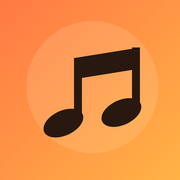
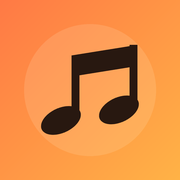
앱 아이콘 음표 정중앙 정렬, 가사 보기·쓰기(시간 가사 따라가기) 추가
Claude-Session: https://claude.ai/code/session_01JB9z3FS9c58aWARiNNNV7n

Changed region(s): [[0.2222, 0.2222, 0.8056, 0.7778]]

diff --git a/index.html b/index.html
@@ -69,11 +69,20 @@ main{padding:8px 14px}
 .handle{width:28px;height:44px;margin-right:-4px;color:var(--muted);font-size:20px;touch-action:none;flex-shrink:0;cursor:grab}
 .row.dragging{background:var(--panel2);position:relative;z-index:3;box-shadow:0 10px 28px rgba(0,0,0,.55);transition:none}
 .search{margin:0 0 8px;padding:11px 14px}
-.chip svg{width:14px;height:14px;fill:currentColor;vertical-align:-2px}
+.chip svg{width:14px;height:14px;fill:currentColor;display:block;flex-shrink:0}
 .prog{height:8px;background:var(--line);border-radius:4px;overflow:hidden;margin:14px 0 8px}
 .prog i{display:block;height:100%;width:0;background:linear-gradient(90deg,var(--accent),var(--accent2));transition:width .2s}
 .vstat{font-size:13px;color:var(--muted);min-height:18px}
 .act-item .ico-s{width:20px;height:20px;flex-shrink:0}
+.ihead{display:flex;align-items:center;gap:14px;margin:2px 0 14px}
+.ihead .thumb{width:64px;height:64px;border-radius:14px;font-size:26px;cursor:default}
+.ihead .it-title,.ihead .it-artist{text-align:left;margin:0}
+.ihead .it-title{font-size:18px}
+.lyrics{max-height:46vh;overflow:auto;text-align:center;font-size:16px;line-height:1.9;white-space:pre-wrap;word-break:keep-all;padding:6px 4px 10px;-webkit-overflow-scrolling:touch}
+.lline{padding:3px 6px;border-radius:8px;color:var(--muted);transition:color .25s,transform .25s;cursor:pointer}
+.lline.on{color:var(--text);font-weight:700;transform:scale(1.05)}
+.nolyr{text-align:center;color:var(--muted);padding:44px 0 30px;font-size:15px}
+.lyr-edit{min-height:44vh;resize:vertical;line-height:1.7;font-family:inherit}
 .plcard{display:flex;align-items:center;gap:12px;padding:12px;border-radius:14px;background:var(--panel);margin-bottom:8px}
 .cover{width:48px;height:48px;border-radius:12px;background:linear-gradient(135deg,var(--accent),var(--accent2));display:grid;place-items:center;font-size:22px;color:#1a0d06;flex-shrink:0}
 .dethead{display:flex;align-items:center;gap:8px;margin:4px 0 6px}
@@ -99,7 +108,7 @@ main{padding:8px 14px}
 .it-table td:first-child{color:var(--muted);width:92px;white-space:nowrap}
 .it-table td:last-child{word-break:break-all}
 .ptitle .name{font-size:16px;font-weight:700}
-.chip{position:relative;padding:6px 10px;border-radius:999px;background:var(--panel2);font-size:12px;font-weight:700;color:var(--accent2);border:1px solid var(--line)}
+.chip{position:relative;display:inline-flex;align-items:center;gap:4px;line-height:1;padding:7px 11px;border-radius:999px;background:var(--panel2);font-size:12px;font-weight:700;color:var(--accent2);border:1px solid var(--line)}
 .chip.on{background:var(--accent2);color:#1a0d06}
 .seek{display:flex;align-items:center;gap:8px;font-size:11px;color:var(--muted);margin:8px 0 4px;font-variant-numeric:tabular-nums}
 input[type=range]{-webkit-appearance:none;appearance:none;width:100%;height:4px;border-radius:4px;background:var(--line);outline:none}
@@ -292,12 +301,15 @@ const plById = id => playlists.find(p => p.id === id);
 let toastT;
 function toast(msg) { const t = $('#toast'); t.textContent = msg; t.classList.add('show'); clearTimeout(toastT); toastT = setTimeout(() => t.classList.remove('show'), 1800); }
 let sheetClose = null;
+let infoOpen = false, infoTab = 'lyrics', infoSongId = null, lyrState = null;
 function openSheet(html, mount) {
+  infoOpen = false; lyrState = null;
   $('#sheetBody').innerHTML = html;
   $('#mask').classList.add('show'); $('#sheet').classList.add('show');
   if (mount) mount($('#sheetBody'));
 }
 function closeSheet() {
+  infoOpen = false; lyrState = null;
   $('#mask').classList.remove('show'); $('#sheet').classList.remove('show');
   if (sheetClose) { const f = sheetClose; sheetClose = null; f(); }
 }
@@ -377,6 +389,21 @@ function readPic(d, v2) {
   if (mime === 'image/jpg') mime = 'image/jpeg';
   return new Blob([d.slice(i)], { type: mime });
 }
+function readLyrics(d) {
+  const enc = d[0]; let i = 4; // 인코딩 1바이트 + 언어 3바이트
+  if (enc === 1 || enc === 2) { while (i + 1 < d.length && !(d[i] === 0 && d[i + 1] === 0)) i += 2; i += 2; }
+  else { while (i < d.length && d[i] !== 0) i++; i++; }
+  if (i >= d.length) return '';
+  const b = d.subarray(i);
+  try {
+    let t;
+    if (enc === 1) t = new TextDecoder('utf-16').decode(b);
+    else if (enc === 2) t = new TextDecoder('utf-16be').decode(b);
+    else if (enc === 3) t = new TextDecoder('utf-8').decode(b);
+    else { try { t = new TextDecoder('utf-8', { fatal: true }).decode(b); } catch { try { t = new TextDecoder('euc-kr').decode(b); } catch { t = new TextDecoder('latin1').decode(b); } } }
+    return t.replace(/\u0000/g, '').replace(/\r\n?/g, '\n').trim();
+  } catch { return ''; }
+}
 async function readTags(blob) {
   const out = {};
   try {
@@ -390,7 +417,7 @@ async function readTags(blob) {
       let p = 0;
       if (flags & 0x40) p = ver === 4 ? ss(b, 0) : u32(b, 0) + 4;
       const v2 = ver === 2, idLen = v2 ? 3 : 4, hdr = v2 ? 6 : 10;
-      const map = v2 ? { TT2: 'title', TP1: 'artist', TAL: 'album', PIC: 'art' } : { TIT2: 'title', TPE1: 'artist', TALB: 'album', APIC: 'art' };
+      const map = v2 ? { TT2: 'title', TP1: 'artist', TAL: 'album', PIC: 'art', ULT: 'lyrics' } : { TIT2: 'title', TPE1: 'artist', TALB: 'album', APIC: 'art', USLT: 'lyrics' };
       while (p + hdr <= b.length) {
         const id = String.fromCharCode(...b.subarray(p, p + idLen));
         if (!/^[A-Z0-9]+$/.test(id)) break;
@@ -398,6 +425,14 @@ async function readTags(blob) {
         if (fs <= 0 || p + hdr + fs > b.length) break;
         const key = map[id], d = b.subarray(p + hdr, p + hdr + fs);
         if (key === 'art') { if (!out.art) out.art = readPic(d, v2); }
+        else if (key === 'lyrics') { if (!out.lyrics) out.lyrics = readLyrics(d); }
+        else if (id === 'TXXX' || id === 'TXX') {   // 일부 프로그램은 가사를 TXXX(LYRICS)에 넣음
+          const enc = d[0]; let i = 1;
+          if (enc === 1 || enc === 2) { while (i + 1 < d.length && !(d[i] === 0 && d[i + 1] === 0)) i += 2; }
+          else { while (i < d.length && d[i] !== 0) i++; }
+          const desc = decodeText(d.subarray(1, i), enc);
+          if (/lyric|uslt/i.test(desc) && !out.lyrics) out.lyrics = readLyrics(new Uint8Array([enc, 0x58, 0x58, 0x58, ...d.subarray(1)]));
+        }
         else if (key && !out[key]) out[key] = decodeText(d.subarray(1), d[0]);
         p += hdr + fs;
       }
@@ -409,7 +444,7 @@ async function readTags(blob) {
       }
     }
   } catch (e) {}
-  for (const k of ['title', 'artist', 'album']) if (!out[k]) delete out[k];
+  for (const k of ['title', 'artist', 'album', 'lyrics']) if (!out[k]) delete out[k];
   if (!out.art) delete out.art;
   return out;
 }
@@ -430,12 +465,13 @@ async function enrich(s, isNew) {
   if (tags.artist) s.artist = tags.artist;
   if (tags.album) s.album = tags.album;
   if (tags.art) s.art = tags.art;
+  if (tags.lyrics && !s.lyrics) s.lyrics = tags.lyrics;
   if (!s.renamed) {
     if (isNew || s.file) s.name = tags.title || cleanName((s.file || s.name).replace(/\.[^.]+$/, ''));
     else s.name = cleanName(s.name);
   }
   if (!s.dur) s.dur = await getDuration(s.blob);
-  s.v2 = true;
+  s.v2 = true; s.v3 = true;
 }
 async function upgradeOldSongs() {
   const old = songs.filter(s => !s.v2);
@@ -444,6 +480,9 @@ async function upgradeOldSongs() {
     render(); if (s.id === curId) updateNow();
   }
   if (old.length) toast(`${old.length}곡의 정보를 정리했어요`);
+  for (const s of songs.filter(x => !x.v3)) {   // 이미 넣은 곡의 가사 읽기
+    try { const t = await readTags(s.blob); if (t.lyrics && !s.lyrics) s.lyrics = t.lyrics; s.v3 = true; await put('songs', s); } catch {}
+  }
 }
 
 /* ---------- 영상에서 음원 추출 → MP3 ---------- */
@@ -523,7 +562,7 @@ async function convertVideos(files) {
       ui('vStat', 'MP3로 바꾸는 중… 0%');
       const mp3 = await encodeMp3(buf, p => { ui('vBar', 0.1 + p * 0.9); ui('vStat', `MP3로 바꾸는 중… ${Math.round(p * 100)}%`); });
       const base = f.name.replace(/\.[^.]+$/, '');
-      const s = { id: uid(), name: cleanName(base), file: base + '.mp3', blob: mp3, size: mp3.size, added: Date.now(), dur: buf.duration, v2: true, fromVideo: true };
+      const s = { id: uid(), name: cleanName(base), file: base + '.mp3', blob: mp3, size: mp3.size, added: Date.now(), dur: buf.duration, v2: true, v3: true, fromVideo: true };
       if (art) s.art = art;
       try { await put('songs', s); } catch (err) { db = null; await put('songs', s); }
       songs.push(s); ok++; lastId = s.id;
@@ -749,29 +788,96 @@ async function renameSong(s) {
 }
 
 /* ---------- 재생 중인 곡 정보 ---------- */
-function infoSheet() {
+// 시간 가사([00:12.34] 형식) 읽기
+function parseLrc(t) {
+  const out = [], re = /\[(\d{1,3}):(\d{1,2}(?:[.:]\d{1,3})?)\]/g;
+  for (const raw of (t || '').split('\n')) {
+    const times = []; let m, last = 0; re.lastIndex = 0;
+    while ((m = re.exec(raw))) { times.push(+m[1] * 60 + parseFloat(m[2].replace(':', '.'))); last = re.lastIndex; }
+    if (times.length) { const text = raw.slice(last).trim(); times.forEach(tm => out.push({ t: tm, text })); }
+  }
+  out.sort((a, b) => a.t - b.t);
+  return out.length >= 3 ? out : null;
+}
+function infoSheet(tabArg) {
   const s = songById(curId);
   if (!s) return toast('재생 중인 곡이 없어요');
+  if (typeof tabArg === 'string') infoTab = tabArg;
   const art = artUrl(s);
-  const srcName = queueSrc === 'lib' ? '전체 곡' : (plById(queueSrc)?.name || '');
-  const inPls = playlists.filter(p => p.songIds.includes(s.id)).map(p => p.name);
-  const d = new Date(s.added);
-  const rows = [
-    ['앨범', s.album],
-    ['길이', s.dur ? fmt(s.dur) : ''],
-    ['파일 크기', fmtSize(s.size)],
-    ['원본 파일', s.file],
-    ['추가한 날', isNaN(d) ? '' : `${d.getFullYear()}.${d.getMonth() + 1}.${d.getDate()}`],
-    ['재생 목록', srcName ? `${srcName} · ${pos + 1}/${order.length}` : ''],
-    ['담긴 곳', inPls.join(', ')]
-  ].filter(x => x[1]);
-  openSheet(`<div class="bigart">${art ? `<img src="${art}" alt="">` : '♪'}</div>
-    <p class="it-title">${esc(s.name)}</p>
-    <p class="it-artist">${esc(s.artist || '가수 정보 없음')}</p>
-    <table class="it-table">${rows.map(([k, v]) => `<tr><td>${k}</td><td>${esc(v)}</td></tr>`).join('')}</table>
-    <div class="sheet-btns"><button class="btn" id="iRen">이름 바꾸기</button><button class="btn" id="iPl">플레이리스트에 담기</button></div>`, b => {
-    b.querySelector('#iRen').onclick = async () => { closeSheet(); await new Promise(r => setTimeout(r, 230)); await renameSong(s); };
-    b.querySelector('#iPl').onclick = async () => { closeSheet(); await new Promise(r => setTimeout(r, 230)); addToPlaylists(s); };
+  const head = `<div class="ihead"><div class="thumb">${art ? `<img src="${art}" alt="">` : '<span>♪</span>'}</div>
+    <div class="info"><p class="it-title">${esc(s.name)}</p><p class="it-artist">${esc(s.artist || '가수 정보 없음')}</p></div></div>
+    <div class="seg"><button data-t="lyrics" class="${infoTab === 'lyrics' ? 'on' : ''}">가사</button><button data-t="info" class="${infoTab === 'info' ? 'on' : ''}">곡 정보</button></div>`;
+  let body = '';
+  const lrc = infoTab === 'lyrics' && s.lyrics ? parseLrc(s.lyrics) : null;
+  if (infoTab === 'lyrics') {
+    if (!s.lyrics) body = `<div class="nolyr">가사가 없습니다</div><div class="sheet-btns"><button class="btn primary" id="lEdit">${I_EDIT} 가사 쓰기</button></div>`;
+    else body = `<div class="lyrics" id="lyrBox">${lrc ? lrc.map((l, i) => `<div class="lline" data-i="${i}">${esc(l.text) || '♪'}</div>`).join('') : esc(s.lyrics)}</div>
+      <div class="sheet-btns"><button class="btn" id="lEdit">${I_EDIT} 가사 수정</button></div>`;
+  } else {
+    const srcName = queueSrc === 'lib' ? '전체 곡' : (plById(queueSrc)?.name || '');
+    const inPls = playlists.filter(p => p.songIds.includes(s.id)).map(p => p.name);
+    const d = new Date(s.added);
+    const rows = [
+      ['앨범', s.album], ['길이', s.dur ? fmt(s.dur) : ''], ['파일 크기', fmtSize(s.size)], ['원본 파일', s.file],
+      ['추가한 날', isNaN(d) ? '' : `${d.getFullYear()}.${d.getMonth() + 1}.${d.getDate()}`],
+      ['재생 목록', srcName ? `${srcName} · ${pos + 1}/${order.length}` : ''], ['담긴 곳', inPls.join(', ')],
+      ['가사', s.lyrics ? (parseLrc(s.lyrics) ? '있음 (재생에 맞춰 표시)' : '있음') : '없음']
+    ].filter(x => x[1]);
+    body = `${art ? `<div class="bigart"><img src="${art}" alt=""></div>` : ''}
+      <table class="it-table">${rows.map(([k, v]) => `<tr><td>${k}</td><td>${esc(v)}</td></tr>`).join('')}</table>
+      <div class="sheet-btns"><button class="btn" id="iRen">이름 바꾸기</button><button class="btn" id="iPl">플레이리스트에 담기</button></div>`;
+  }
+  openSheet(head + body, b => {
+    b.querySelectorAll('[data-t]').forEach(x => x.onclick = () => infoSheet(x.dataset.t));
+    const le = b.querySelector('#lEdit'); if (le) le.onclick = () => lyricsEditor(s);
+    const ir = b.querySelector('#iRen'); if (ir) ir.onclick = async () => { closeSheet(); await new Promise(r => setTimeout(r, 230)); await renameSong(s); };
+    const ip = b.querySelector('#iPl'); if (ip) ip.onclick = async () => { closeSheet(); await new Promise(r => setTimeout(r, 230)); addToPlaylists(s); };
+    if (lrc) {
+      const els = [...b.querySelectorAll('.lline')];
+      els.forEach(el => el.onclick = () => { audio.currentTime = lrc[+el.dataset.i].t; if (audio.paused) audio.play().catch(() => {}); });
+      lyrState = { lines: lrc, els, idx: -1, box: b.querySelector('#lyrBox') };
+      syncLyrics(true);
+    }
+  });
+  infoOpen = true; infoSongId = s.id;
+}
+function syncLyrics(jump) {
+  if (!lyrState) return;
+  const t = audio.currentTime + 0.2, L = lyrState.lines;
+  let i = -1; for (let k = 0; k < L.length; k++) { if (L[k].t <= t) i = k; else break; }
+  if (i === lyrState.idx) return;
+  if (lyrState.idx >= 0) lyrState.els[lyrState.idx]?.classList.remove('on');
+  lyrState.idx = i;
+  const el = lyrState.els[i];
+  if (el) {
+    el.classList.add('on');
+    const box = lyrState.box;
+    box.scrollTo({ top: el.offsetTop - box.offsetTop - box.clientHeight / 2 + el.clientHeight / 2, behavior: jump ? 'auto' : 'smooth' });
+  }
+}
+audio.addEventListener('timeupdate', () => syncLyrics(false));
+audio.addEventListener('seeked', () => syncLyrics(true));
+function lyricsEditor(s) {
+  openSheet(`<p class="sheet-title">${s.lyrics ? '가사 수정' : '가사 쓰기'} · ${esc(s.name)}</p>
+    <textarea class="field lyr-edit" id="lyrIn" placeholder="가사를 입력하거나 붙여 넣으세요">${esc(s.lyrics || '')}</textarea>
+    <p class="note" style="margin-top:8px">줄 앞에 [01:23.45]처럼 시간을 넣으면 노래에 맞춰 가사가 따라가요.</p>
+    <div class="sheet-btns"><button class="btn" id="lyNo">취소</button><button class="btn" id="lyTime">지금 시간 넣기</button><button class="btn primary" id="lyOk">저장</button></div>`, b => {
+    const ta = b.querySelector('#lyrIn');
+    b.querySelector('#lyNo').onclick = () => infoSheet('lyrics');
+    b.querySelector('#lyTime').onclick = () => {
+      const t = audio.currentTime || 0, tag = `[${String(Math.floor(t / 60)).padStart(2, '0')}:${(t % 60).toFixed(2).padStart(5, '0')}]`;
+      const p = ta.selectionStart, lineStart = ta.value.lastIndexOf('\n', p - 1) + 1;
+      ta.value = ta.value.slice(0, lineStart) + tag + ta.value.slice(lineStart).replace(/^\[\d{1,3}:\d{1,2}(?:[.:]\d{1,3})?\]/, '');
+      const nextLine = ta.value.indexOf('\n', lineStart); const np = nextLine < 0 ? ta.value.length : nextLine + 1;
+      ta.focus(); ta.setSelectionRange(np, np);
+    };
+    b.querySelector('#lyOk').onclick = async () => {
+      const v = ta.value.replace(/\r\n?/g, '\n').trim();
+      if (v) s.lyrics = v; else delete s.lyrics;
+      s.v3 = true; await put('songs', s);
+      toast(v ? '가사를 저장했어요' : '가사를 지웠어요');
+      infoSheet('lyrics');
+    };
   });
 }
 $('#pArt').onclick = infoSheet;
@@ -926,6 +1032,7 @@ function updateNow() {
   $('#pName').textContent = s ? s.name : '재생 중인 곡 없음';
   const srcName = queueSrc === 'lib' ? '전체 곡' : (plById(queueSrc)?.name || '');
   $('#pSub').textContent = s ? `${s.artist ? s.artist + ' · ' : ''}${srcName} · ${order.length ? pos + 1 : 0}/${order.length}` : '곡을 눌러 재생하세요';
+  if (infoOpen && s && infoSongId !== s.id) infoSheet();
   const art = artUrl(s);
   $('#pArt').innerHTML = art ? `<img src="${art}" alt="">` : '<span>♪</span>';
   if ('mediaSession' in navigator && s) {

diff --git a/README.md b/README.md
@@ -18,6 +18,7 @@
 - **잠자기 타이머** – 15~90분 후 / 지금 곡이 끝나면
 - **영상에서 음원 추출** – 영상 파일(MP4·MOV 등)의 소리만 뽑아 MP3로 변환해 바로 추가 (기기 안에서 처리, [lamejs](https://github.com/zhuker/lamejs) 사용 · LGPL)
 - **MP3 파일로 저장**
+- **가사** – MP3에 든 가사 자동 표시(USLT), 직접 쓰기·수정, `[00:12.34]` 시간 가사는 노래에 맞춰 따라감
 - **앱처럼 설치 & 오프라인 실행** – 홈 화면 아이콘, 인터넷 없이도 열림 (PWA)
 
 ## 사용법
